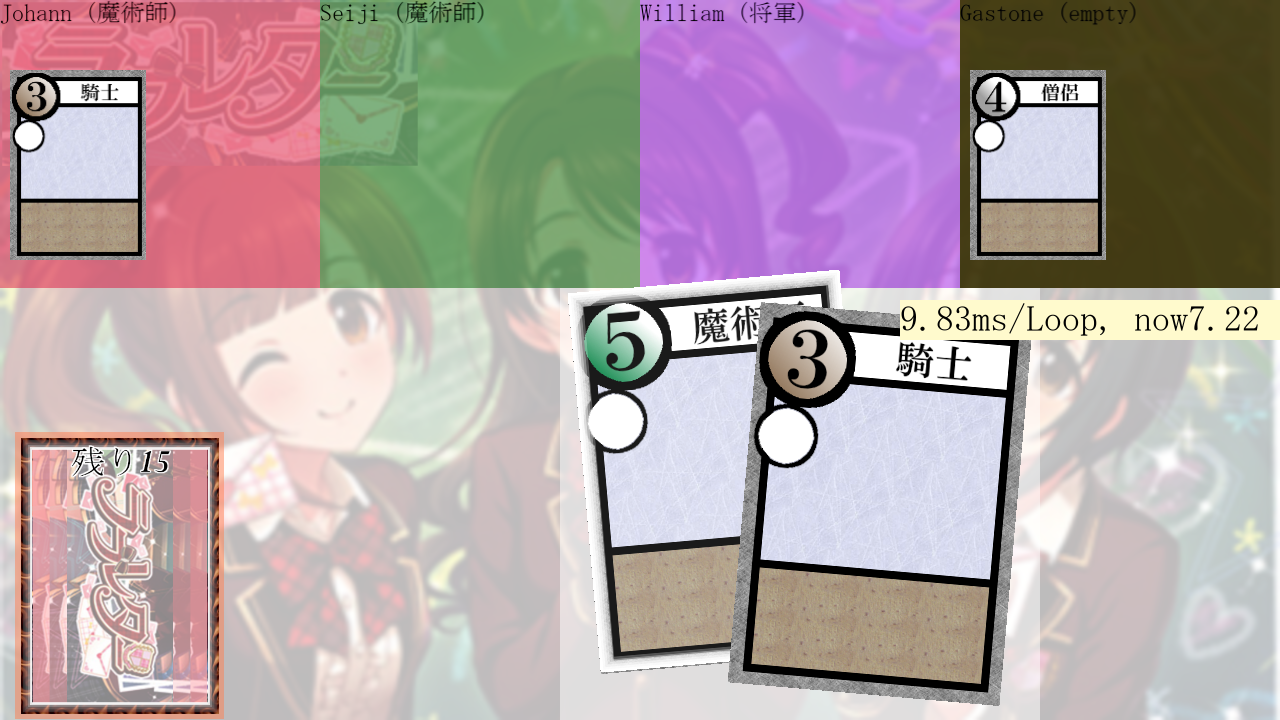
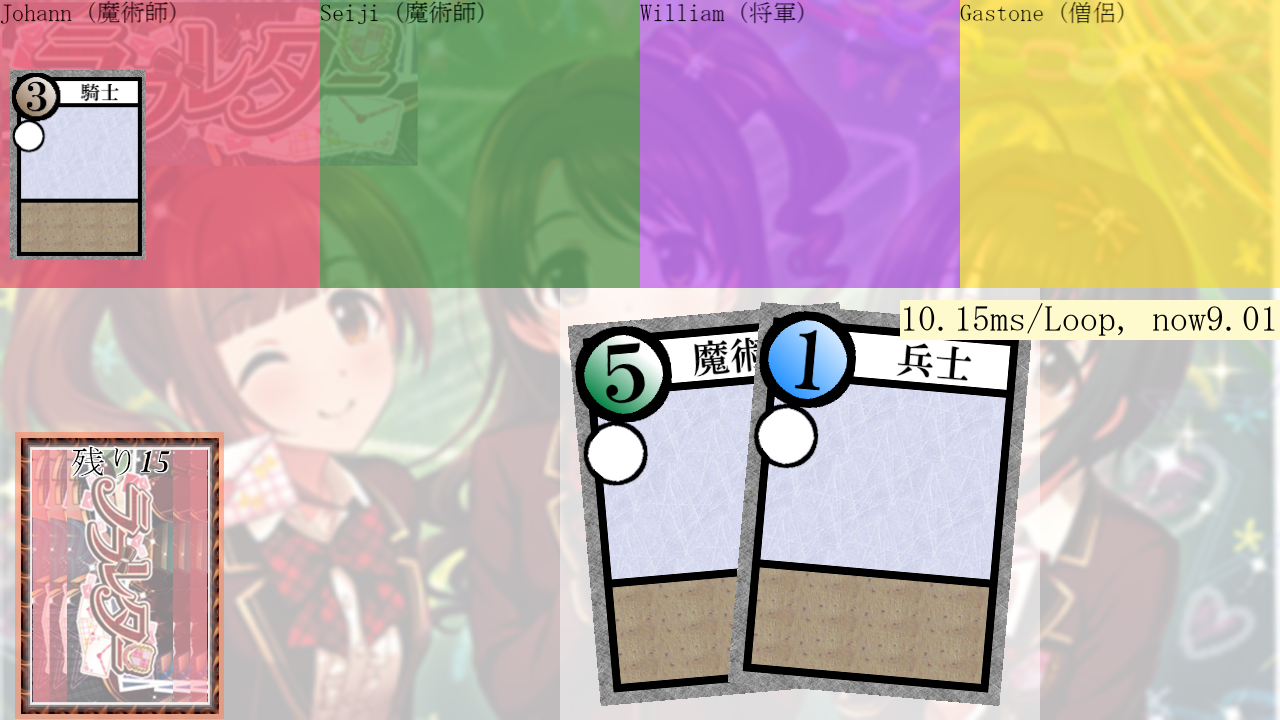
L156:DuelOpenTransitionを作成してDuelsControllerに合成

Changed region(s): [[0.4375, 0.0, 1.0, 0.9778]]

diff --git a/ll/view/duel_open_transition.py b/ll/view/duel_open_transition.py
@@ -5,7 +5,7 @@ from any.screen import FRAMES_PER_SECOND
 from any.timer_functions import frames
 from model.player import Player
 from model.ui_element import UIElement
-from view.duel_kard_move_square import DuelKardMoveSquare
+from view.duel_kard_open_square import DuelKardOpenSquare
 from view.duel_icon_square import DuelIconSquare
 
 _RATIO = V2(880, 475)
@@ -19,14 +19,10 @@ class DuelOpenTransition():
         self._drawing_in_progress = True
         self.frames = frames()
         self.canvas = canvas
-        self.diq = DuelIconSquare(rect=Rect(300, 95, 280, 280), canvas=canvas, seconds=_SECONDS)
-        li: list[tuple[tuple[int, int], Player, bool]] = [((0, 0), p1, True), ((540, 0), p2, False)]
-        self.left_dkmq, self.right_dkmq = [DuelKardMoveSquare(
-            rect=Rect(tpl, (340, 475)), kard=player.hands[0],
-            is_left=is_left, canvas=canvas, seconds=_SECONDS
-        ) for tpl, player, is_left in li]
+        self.diq = DuelIconSquare(rect=Rect(300, 95, 280, 280), canvas=canvas, seconds=0.0)
+        self.left_dkoq, self.right_dkoq = self.dkoqs(p1=p1, p2=p2)
         self.offset = V2(self.rect.topleft)
-        self.squares: list[DuelIconSquare | DuelKardMoveSquare] = [self.diq, self.left_dkmq, self.right_dkmq]
+        self.squares: list[DuelIconSquare | DuelKardOpenSquare] = [self.diq, self.left_dkoq, self.right_dkoq]
         self.ui_element = UIElement(mousedown=self._complete)
 
     def rearrange(self) -> None:
@@ -45,6 +41,17 @@ class DuelOpenTransition():
 
     def in_progress(self) -> bool:
         return self._drawing_in_progress
+
+    def dkoqs(self, p1: Player, p2: Player) -> tuple[DuelKardOpenSquare, DuelKardOpenSquare]:
+        li: list[tuple[tuple[int, int], Player, float]] = [
+            ((0, 0), p1, _SECONDS if p1.hands[0].rank < p2.hands[0].rank else 0.0),
+            ((540, 0), p2, _SECONDS if p1.hands[0].rank > p2.hands[0].rank else 0.0)
+        ]
+        dkoqs = [DuelKardOpenSquare(
+            rect=Rect(tpl, (340, 475)), kard=player.hands[0],
+            canvas=self.canvas, seconds=f
+        ) for tpl, player, f in li]
+        return (dkoqs[0], dkoqs[1])
 
     def _ratio(self) -> float:
         return (frames()-self.frames)/_WAIT

diff --git a/ll/view/duel_engage_transition.py b/ll/view/duel_engage_transition.py
@@ -5,7 +5,7 @@ from any.screen import FRAMES_PER_SECOND
 from any.timer_functions import frames
 from model.player import Player
 from model.ui_element import UIElement
-from view.duel_kard_open_square import DuelKardOpenSquare
+from view.duel_kard_move_square import DuelKardMoveSquare
 from view.duel_icon_square import DuelIconSquare
 
 _RATIO = V2(880, 475)
@@ -21,12 +21,12 @@ class DuelEngageTransition():
         self.canvas = canvas
         self.diq = DuelIconSquare(rect=Rect(300, 95, 280, 280), canvas=canvas, seconds=_SECONDS)
         li: list[tuple[tuple[int, int], Player, bool]] = [((0, 0), p1, True), ((540, 0), p2, False)]
-        self.left_dkoq, self.right_dkoq = [DuelKardOpenSquare(
+        self.left_dkoq, self.right_dkoq = [DuelKardMoveSquare(
             rect=Rect(tpl, (340, 475)), kard=player.hands[0],
             is_left=is_left, canvas=canvas, seconds=_SECONDS
         ) for tpl, player, is_left in li]
         self.offset = V2(self.rect.topleft)
-        self.squares: list[DuelIconSquare | DuelKardOpenSquare] = [self.diq, self.left_dkoq, self.right_dkoq]
+        self.squares: list[DuelIconSquare | DuelKardMoveSquare] = [self.diq, self.left_dkoq, self.right_dkoq]
         self.ui_element = UIElement(mousedown=self._complete)
 
     def rearrange(self) -> None:

diff --git a/ll/ctrl/duels.py b/ll/ctrl/duels.py
@@ -4,6 +4,7 @@ from any.screen import screen
 from model.player import Player
 from ptc.bridge import Bridge
 from view.duel_engage_transition import DuelEngageTransition
+from view.duel_open_transition import DuelOpenTransition
 from view.moves_view import MovesView
 
 class DuelsController():
@@ -14,6 +15,15 @@ class DuelsController():
         self.bridge.whileloop(new_view=MovesView(
             view=self.bridge.view,
             transitions=[DuelEngageTransition(
+                rect=Rect(200, 120, 880, 475),
+                p1=p1,
+                p2=p2,
+                canvas=screen
+            )]
+        ))
+        self.bridge.whileloop(new_view=MovesView(
+            view=self.bridge.view,
+            transitions=[DuelOpenTransition(
                 rect=Rect(200, 120, 880, 475),
                 p1=p1,
                 p2=p2,
